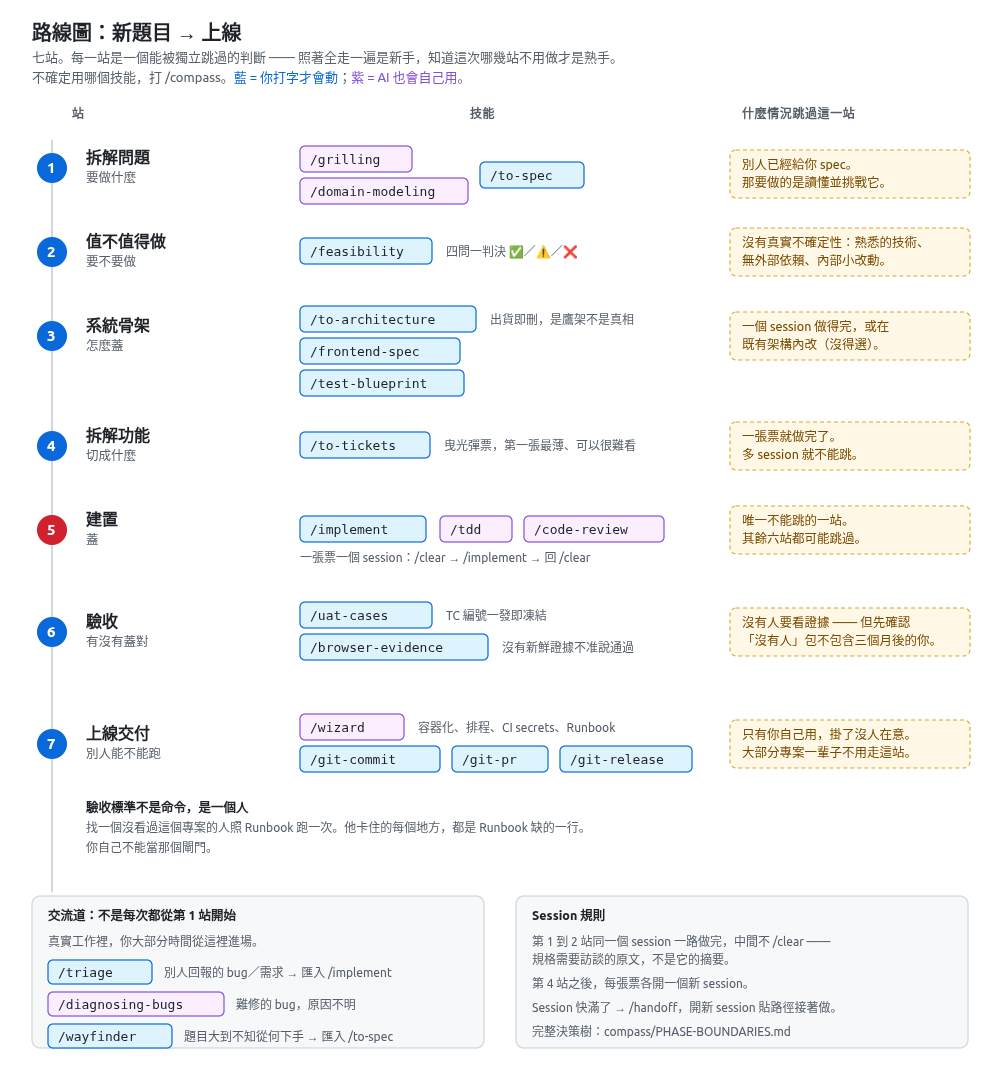
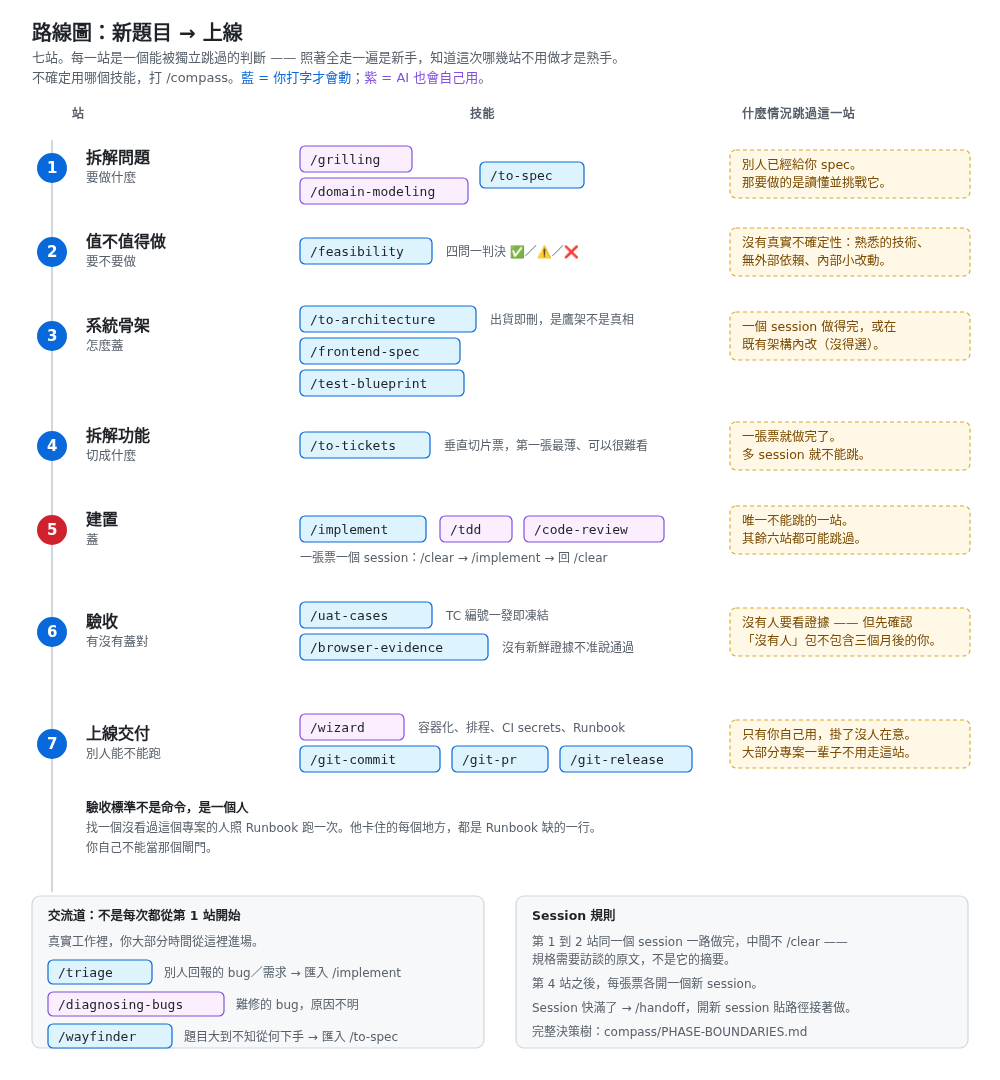
docs(wording): 用詞改為台灣慣用語，「曳光彈」改稱「垂直切片」
WHY
「曳光彈」是 tracer bullet 的直譯，台灣學員看不懂，也和工作坊課綱
使用的「垂直切片」對不起來。順手掃了全 repo 的中國大陸慣用語。

WHAT
- 曳光彈 → 垂直切片（依語境改為「垂直切片票」「第一張切片」等）
- 文檔→文件、運行→執行、回滾計畫→回復（rollback）計畫、踩坑→踩雷、
  配置→設定／編制、場景→情境、代碼慣例→符號慣例、登錄→登記、
  報錯→回報錯誤、更新日誌→變更紀錄、點擊→點選、自帶→內附、
  發佈→發布（統一成教育部用字，原本兩種寫法混用）
- 技能內的英文 prompt（tracer bullet）不動：那是給模型的 leading word，
  見 writing-for-agents
- route.png 由 route.svg 以 headless Chrome 重新輸出，確保圖文一致
- 保留：項目、對象、函數（數學語意）、心智模型、一鍵、落地（台灣商業用語）

IMPACT
- to-tickets、to-spec、git-release 的中文 description 有變，觸發語意不變
- git-release 產出的 CHANGELOG 標題由「更新日誌」改為「變更紀錄」
- check.sh 全綠、SKILL.md frontmatter 首字元檢查通過

diff --git a/docs/skill-atlas.html b/docs/skill-atlas.html
@@ -451,7 +451,7 @@ footer .mono{color:var(--muted)}
           <p class="st-name">拆解功能</p>
           <p class="st-what">切成什麼</p>
           <div class="chips"><span class="chip u">/to-tickets</span></div>
-          <p class="hint">曳光彈票，每張標明自己的阻塞邊。第一張最薄，可以很難看。</p>
+          <p class="hint">垂直切片票，每張標明自己的阻塞邊。第一張最薄，可以很難看。</p>
         </div>
         <div class="skip"><b>跳過條件</b>一張票就做完了。多 session 就不能跳。</div>
       </div>
@@ -572,12 +572,12 @@ footer .mono{color:var(--muted)}
   <div class="group">
     <div class="group-head"><h3>主線七站</h3><span class="count">9</span><span class="where">idea → ship</span></div>
     <div class="cards">
-      <div class="card"><span class="slug">/to-spec</span><p>把當前對話收斂成一份規格，並發佈到議題追蹤器。</p></div>
+      <div class="card"><span class="slug">/to-spec</span><p>把當前對話收斂成一份規格，並發布到議題追蹤器。</p></div>
       <div class="card"><span class="slug">/feasibility</span><p>規格與拆票之間補上可行性一關：技術風險、競品對照、成功指標、量級成本，收在 ✅／⚠／❌ 判決。</p></div>
       <div class="card"><span class="slug">/to-architecture</span><p>技術棧、資料模型、API 合約。每個取捨仍寫成獨立 ADR，架構文件只引用不重述。</p></div>
       <div class="card"><span class="slug">/frontend-spec</span><p>有 UI 的規格產出路由表、每頁 design brief、四態畫面（Loading／Empty／Error／Success）的 .pen mockup。</p></div>
       <div class="card"><span class="slug">/test-blueprint</span><p>提案測試藍圖 —— 層佈局、縫清單、CI 時段；核准後產出靜態層檢查腳本與 CI workflow。</p></div>
-      <div class="card"><span class="slug">/to-tickets</span><p>把計畫、規格或對話切成一張張曳光彈票，每張都標明自己的阻塞邊。</p></div>
+      <div class="card"><span class="slug">/to-tickets</span><p>把計畫、規格或對話切成一張張垂直切片票，每張都標明自己的阻塞邊。</p></div>
       <div class="card"><span class="slug">/implement</span><p>依規格或一組票建置，在議定的接縫上驅動 TDD，收尾跑一次程式碼審查。</p></div>
       <div class="card"><span class="slug">/uat-cases</span><p>從規格與使用者故事推導 UAT 案例，發出凍結的 TC 編號，維護 docs/uat-cases.md。</p></div>
       <div class="card"><span class="slug">/browser-evidence</span><p>把既定案例清單跑成可交付的證據 —— 截圖或原始回應、網路紀錄與被測版本 manifest。</p></div>
@@ -616,7 +616,7 @@ footer .mono{color:var(--muted)}
       <div class="card"><span class="slug">/git-commit</span><p>只提交你 staged 的內容，寫英文 commit 並推上遠端；絕不代替你 stage。</p></div>
       <div class="card"><span class="slug">/git-merge</span><p>把指定分支合併進當前分支；發生衝突時停下來分析與建議，解法是你的決定。</p></div>
       <div class="card"><span class="slug">/git-pr</span><p>檢視分支所有 commit 開出 PR；合併後同步 main、清理本地與遠端分支。</p></div>
-      <div class="card"><span class="slug">/git-release</span><p>更新版本號，把兩版本間的 commit 彙整成繁中發布摘要，打 tag 並發佈 release 頁面。</p></div>
+      <div class="card"><span class="slug">/git-release</span><p>更新版本號，把兩版本間的 commit 彙整成繁中發布摘要，打 tag 並發布 release 頁面。</p></div>
     </div>
   </div>
 

diff --git a/instructor/sunny-sprint.md b/instructor/sunny-sprint.md
@@ -78,8 +78,8 @@
 | 天 | 主題 | 交付物 |
 |---|---|---|
 | **8–10** | Coding agent 協作開發<br>CLI 心智模型、subagent 任務分工、RAG 核心模組（文件向量化／相似度搜尋／答案生成）、TDD | **3 個可回放的 PR**：功能實作、測試補強、重構優化<br>協作規範文件 |
-| **11–12** | 多任務並行<br>任務拆解與 Artifacts 驗證、前端介面、監控與日誌、API 文檔 | 使用者介面<br>監控 Dashboard<br>技術文檔<br>Artifacts 證據包 |
-| **13–14** | 安全檢測與部署上線<br>AI 生成程式的安全風險、依賴掃描、秘密管理與最小權限、CI/CD、效能監控 | 安全檢測報告<br>**上線 URL**<br>部署與維護文檔<br>3 分鐘 Pitch 影片 |
+| **11–12** | 多任務並行<br>任務拆解與 Artifacts 驗證、前端介面、監控與日誌、API 文件 | 使用者介面<br>監控 Dashboard<br>技術文件<br>Artifacts 證據包 |
+| **13–14** | 安全檢測與部署上線<br>AI 生成程式的安全風險、依賴掃描、秘密管理與最小權限、CI/CD、效能監控 | 安全檢測報告<br>**上線 URL**<br>部署與維護文件<br>3 分鐘 Pitch 影片 |
 
 **Day 8–10 用 Claude Code，Day 11–12 用 Antigravity。** 兩個工具的入門教材就在這個 repo：[`claude`](../../../tree/claude) 與 [`antigravity`](../../../tree/antigravity) 分支。想在開課前先熟悉工具，走完任一條都可以。
 
@@ -119,13 +119,13 @@
 **3. 可重現性與可部署性（15）**
 - 優秀 13–15：一鍵部署，完整環境設定，有 Docker 支援
 - 良好 10–12：基本可部署，需要少量手動設定
-- 及格 7–9：可運行但需要複雜設定，文檔不完整
-- 不及格 0–6：**無法在乾淨環境中運行**
+- 及格 7–9：可執行但需要複雜設定，文件不完整
+- 不及格 0–6：**無法在乾淨環境中執行**
 
 **4. 程式品質與測試（15）**
 - 優秀 13–15：有單元測試與整合測試，結構清晰，有錯誤處理
 - 良好 10–12：有基本測試，程式碼品質良好
-- 及格 7–9：可運行但缺乏測試與錯誤處理
+- 及格 7–9：可執行但缺乏測試與錯誤處理
 - 不及格 0–6：品質差，容易崩潰
 
 **5. 功能完整性（15）**
@@ -137,13 +137,13 @@
 **6. 效能與可擴展性（10）**
 - 優秀 9–10：有效能監控，考慮擴展性，有優化措施
 - 良好 7–8：效能可接受，有基本監控
-- 及格 5–6：可運行但效能一般
+- 及格 5–6：可執行但效能一般
 - 不及格 0–4：效能問題明顯影響使用
 
 **7. 交付完整度與展示（15）**
-- 優秀 13–15：完整文檔、清晰展示、有使用說明，pitch 專業
-- 良好 10–12：文檔基本完整，展示清楚
-- 及格 7–9：有基本文檔與展示但不夠專業
+- 優秀 13–15：完整文件、清晰展示、有使用說明，pitch 專業
+- 良好 10–12：文件基本完整，展示清楚
+- 及格 7–9：有基本文件與展示但不夠專業
 - 不及格 0–6：交付物不完整，無法有效展示
 
 </details>
@@ -172,7 +172,7 @@ repo 的教材可以獨立走完。Sunny Sprint 加的是**外部驗收壓力** 
 
 ---
 
-## 教練配置
+## 教練編制
 
 - 主教練 1 名：課程設計與最終評分
 - 助教 2–3 名：日常答疑與進度追蹤

diff --git a/advanced/cookcard/COOKBOOK.md b/advanced/cookcard/COOKBOOK.md
@@ -36,7 +36,7 @@
 | **session 邊界** | 這一站結束要不要 `/clear`，為什麼 |
 | **離站前自己勾** | 對應 `BUILD.md` 那一站的通過訊號 |
 
-**代碼慣例**：底下出現 `<票號>`、`<TC 編號>`、`<ADR 編號>` 的地方，是**你自己前一站生出來的東西**，這份文件沒辦法替你填。每一處都會標出來，並附一個填好的示範。
+**符號慣例**：底下出現 `<票號>`、`<TC 編號>`、`<ADR 編號>` 的地方，是**你自己前一站生出來的東西**，這份文件沒辦法替你填。每一處都會標出來，並附一個填好的示範。
 
 ---
 
@@ -174,7 +174,7 @@ CookCard 還沒有 codebase，所以是 `/grilling`（純訪談），不是 `/gr
 寫完之後直接告訴我：
 從這份 spec，我現在可以打哪一條命令，而且它現在一定會失敗？
 
-最後發佈到議題追蹤器。
+最後發布到議題追蹤器。
 ```
 
 ## session 邊界
@@ -185,7 +185,7 @@ CookCard 還沒有 codebase，所以是 `/grilling`（純訪談），不是 `/gr
 
 ## 離站前自己勾
 
-- [ ] spec 已發佈到議題追蹤器
+- [ ] spec 已發布到議題追蹤器
 - [ ] `Non-goal` 至少三條（想不出三條代表範圍還沒收斂）
 - [ ] 你手上有一條**現在跑一定會失敗**的檢查命令
 - [ ] `docs/adr/` 底下至少有一份 ADR
@@ -397,9 +397,9 @@ fixtures/ 底下每支影片的 expected.json 是驗收下限，
 
 **每張票都是垂直切片** —— 做完就有東西可觀察地動起來。
 絕對不要切成「加 DB schema」「加 API 層」「加 UI」。
-那是三張票，三張都落地之前什麼都不會動。
+那是三張票，三張都完成之前什麼都不會動。
 
-第一張票是曳光彈：最薄的端到端路徑，**可以很難看**。
+第一張票是垂直切片：最薄的端到端路徑，**可以很難看**。
 具體來說：寫死 fixtures/baseline 那支影片，
 跑出一個只有三樣食材的 JSON，印在終端機上。
 沒有 DB、沒有 API、沒有 UI、零錯誤處理。
@@ -443,7 +443,7 @@ ___
 
 ## 離站前自己勾
 
-- [ ] 第一張票是曳光彈，而且它**難看到讓你有點不舒服**
+- [ ] 第一張票是垂直切片，而且它**難看到讓你有點不舒服**
 - [ ] 沒有任何一張票的名字是「加 xxx 層」
 - [ ] 隨機挑的票貼給全新 session，它不反問背景
 - [ ] 每張票的阻塞邊你都說得出「為什麼是真的依賴」
@@ -514,7 +514,7 @@ ___（寫下你發現的事實）
 
 - [ ] 每張票各自開過一個新 session
 - [ ] `/implement` 收尾的 `/code-review` **兩條軸（Standards 與 Spec）都過**
-- [ ] 曳光彈那張票的產出你親眼看過它印在終端機上
+- [ ] 第一張垂直切片票的產出你親眼看過它印在終端機上
 - [ ] 中途改過至少一張票（一張都沒改過，八成是你在硬做）
 
 ---
@@ -705,7 +705,7 @@ ___（寫下你發現的事實）
 
 捨不得刪的話 —— 那份文件裡有什麼是 ADR 和票裡沒有的？**那個東西就是你放錯地方的真相。**
 
-## 八、發佈
+## 八、發布
 
 ```text
 /git-commit

diff --git a/advanced/cookcard/BUILD.md b/advanced/cookcard/BUILD.md
@@ -36,7 +36,7 @@
 
 **第 5 站是唯一不能跳的。** 其餘六站在對的條件下都該跳過 —— 每一站都有「什麼情況跳過」那一段。
 
-> **為什麼骨架（3）排在拆票（4）前面**：架構決定票怎麼切。先決定用不用資料庫，才知道曳光彈票要不要包含它。反過來做，票會在做到一半時被架構決定推翻。
+> **為什麼骨架（3）排在拆票（4）前面**：架構決定票怎麼切。先決定用不用資料庫，才知道垂直切片票要不要包含它。反過來做，票會在做到一半時被架構決定推翻。
 
 ---
 
@@ -120,7 +120,7 @@ SDD-agent-coding-beginner/     ← 你 fork 的這個 repo
 
 ## 產出什麼
 
-一份發佈到議題追蹤器的 spec，加上一份術語表（`CONTEXT.md`）與幾份 ADR。
+一份發布到議題追蹤器的 spec，加上一份術語表（`CONTEXT.md`）與幾份 ADR。
 
 ## 用哪個技能
 
@@ -170,7 +170,7 @@ spec 要能回答：輸入是什麼、輸出的食譜卡長什麼樣、哪些情
 
 ## 通過訊號
 
-spec 已發佈，而且**你能從 spec 寫出一條現在會失敗的檢查命令**。
+spec 已發布，而且**你能從 spec 寫出一條現在會失敗的檢查命令**。
 
 自我檢查：把 spec 給一個沒參與訪談的人看，**他問得出你沒想過的問題嗎？** 問得出來就回去補。
 
@@ -289,15 +289,15 @@ ls docs/adr/
 /to-tickets
 ```
 
-## 核心概念：曳光彈，不是分層
+## 核心概念：垂直切片，不是分層
 
 **每張票都是垂直切片** —— 做完就有東西可觀察地動起來。
 
-絕對不要切成「加資料庫 schema」「加 API 層」「加 UI」。那是三張票，三張都落地之前什麼都不會動，沒有一張可以獨立 review 或獨立 revert。
+絕對不要切成「加資料庫 schema」「加 API 層」「加 UI」。那是三張票，三張都完成之前什麼都不會動，沒有一張可以獨立 review 或獨立 revert。
 
-**第一張票是曳光彈：最薄的端到端路徑。它可以很難看** —— 一個寫死的案例、零錯誤處理。它的任務只是證明接縫對得上。
+**第一張票是垂直切片：最薄的端到端路徑。它可以很難看** —— 一個寫死的案例、零錯誤處理。它的任務只是證明接縫對得上。
 
-CookCard 的曳光彈大概是：**寫死 `fixtures/baseline` 那支影片，跑出一個只有三樣食材的 JSON，印在終端機上。** 沒有 DB、沒有 API、沒有 UI。
+CookCard 的第一張垂直切片大概是：**寫死 `fixtures/baseline` 那支影片，跑出一個只有三樣食材的 JSON，印在終端機上。** 沒有 DB、沒有 API、沒有 UI。
 
 ## 什麼時候跳過這一站
 
@@ -410,7 +410,7 @@ CookCard 的曳光彈大概是：**寫死 `fixtures/baseline` 那支影片，跑
 
 ## 產出什麼
 
-一支可重跑的部署精靈、容器化設定、排程、一份 Runbook，以及發佈出去的版本。
+一支可重跑的部署精靈、容器化設定、排程、一份 Runbook，以及發布出去的版本。
 
 ## 用哪些技能
 

diff --git a/.claude/skills/test-blueprint/TEMPLATE.md b/.claude/skills/test-blueprint/TEMPLATE.md
@@ -10,12 +10,12 @@ The shape of `docs/test-blueprint.md` in the target project. Content in Traditio
 
 ## 層佈局
 
-| 層 | 測什麼 | 誰落地 | CI 時段 |
+| 層 | 測什麼 | 誰負責 | CI 時段 |
 | --- | --- | --- | --- |
 | 靜態 | lint／format／型別 | scripts/check-*.sh（本藍圖產出） | presubmit |
 | 單元 | 模組對其設計 | /tdd | presubmit |
 | 整合 | 縫清單所列邊界 | /tdd | 受影響→presubmit；全套→merge |
-| 驗收 | docs/uat-cases.md 全清單 | /uat-cases → /browser-evidence | 發佈前 |
+| 驗收 | docs/uat-cases.md 全清單 | /uat-cases → /browser-evidence | 發布前 |
 
 ## 縫清單
 
@@ -27,7 +27,7 @@ The shape of `docs/test-blueprint.md` in the target project. Content in Traditio
 
 | 承諾 | 標題 | 層 | 時段 | 測試／案例 |
 | --- | --- | --- | --- | --- |
-| PR-AUTH-01 | 會員登入 | 驗收 | 發佈前 | TC-AUTH-01 |
+| PR-AUTH-01 | 會員登入 | 驗收 | 發布前 | TC-AUTH-01 |
 
 ## 缺口清單
 
@@ -50,7 +50,7 @@ The shape of `docs/test-blueprint.md` in the target project. Content in Traditio
 - 覆蓋率：追溯覆蓋為完成定義；行覆蓋僅儀表，不設門檻
 - 未實作門：新增硬擋、存量軟報，界線為上方豁免清單
 - 現況報告：`docs/test-status.md`，CI 於 merge 後生成
-- 證據保留：<留最近 N 次＋每次發佈一份，或「暫不設限」>；單 run 超過約 50MB 或 `docs/uat/` 累計超過約 1GB 時，改上 Git LFS
+- 證據保留：<留最近 N 次＋每次發布一份，或「暫不設限」>；單 run 超過約 50MB 或 `docs/uat/` 累計超過約 1GB 時，改上 Git LFS
 - 偏離預設：<無，或逐條列偏離＋理由>
 ```
 

diff --git a/instructor/cookcard/TEACHING.md b/instructor/cookcard/TEACHING.md
@@ -214,7 +214,7 @@
 | 你看到 | 意味著 |
 |---|---|
 | 票名是「建立資料庫 schema」「實作 API 層」 | 分層切法。**這一站最嚴重的錯誤**，立刻打斷 |
-| 第一張票就要接 DB | 曳光彈不夠薄 |
+| 第一張票就要接 DB | 第一張切片不夠薄 |
 | 阻塞邊連成一條直線 | 發明出來的依賴。問每一條邊「為什麼是真的」 |
 | 票的內文是一行字 | 太小，該合併 |
 | 票裡出現「如同我們討論的」 | 依賴對話。貼給新 session 一定死 |
@@ -235,7 +235,7 @@
 |---|---|---|
 | 「票要拆多細？」 | 給數字 | 「一張票 = 一個全新的 context window。這張塞得下嗎？」 |
 | 「這兩張有沒有依賴？」 | 幫他判 | 「B 需要 A 定義的什麼？講出那個型別的名字」 |
-| 「曳光彈可以這麼醜？」 | 「稍微整理一下」 | 「它的任務只是證明接縫對得上。醜到你不舒服才對」 |
+| 「第一張切片可以這麼醜？」 | 「稍微整理一下」 | 「它的任務只是證明接縫對得上。醜到你不舒服才對」 |
 
 ## 放行門檻
 

diff --git a/docs/SKILL-MAP.md b/docs/SKILL-MAP.md
@@ -28,7 +28,7 @@
 | **1** 拆解問題 | `/grilling`（無 codebase）<br>`/grill-with-docs`（有 codebase）<br>`/domain-modeling`<br>`/to-spec` | spec、`CONTEXT.md`、ADR | 別人已經給你 spec |
 | **2** 值不值得做 | `/feasibility` | ✅／⚠／❌ 判決 | 沒有真實不確定性 |
 | **3** 系統骨架 | `/to-architecture`<br>`/frontend-spec`<br>`/test-blueprint` | 技術棧、資料模型、API 合約、測試藍圖 | 一個 session 做得完，或在既有架構內 |
-| **4** 拆解功能 | `/to-tickets` | 曳光彈票 + 阻塞邊 | 一張票就做完了 |
+| **4** 拆解功能 | `/to-tickets` | 垂直切片票 + 阻塞邊 | 一張票就做完了 |
 | **5** 建置 | `/implement`（內含 `/tdd`、`/code-review`） | 程式碼 | **不能跳** |
 | **6** 驗收 | `/uat-cases`<br>`/browser-evidence` | 凍結編號的 TC 清單、證據 | 沒人要看證據 |
 | **7** 上線交付 | `/wizard`<br>`/git-commit` → `/git-pr` → `/git-release` | 部署精靈、Runbook、release | 只有你自己用 |

diff --git a/.claude/skills/git-release/SKILL.md b/.claude/skills/git-release/SKILL.md
@@ -1,6 +1,6 @@
 ---
 name: git-release
-description: 更新版本檔中的版本號，彙整兩版本間的 commit 寫成繁體中文發布摘要，打 tag 推上遠端並發佈 release 頁面。
+description: 更新版本檔中的版本號，彙整兩版本間的 commit 寫成繁體中文發布摘要，打 tag 推上遠端並發布 release 頁面。
 disable-model-invocation: true
 argument-hint: 目標版本號，如 v0.8.1
 allowed-tools: Bash(git log:*), Bash(git tag:*), Bash(git push:*), Bash(git describe:*), Bash(git commit:*), Bash(git add:*), Bash(gh release:*)
@@ -46,7 +46,7 @@ Release v0.8.1 - 2026-07-28
 ## 總覽
 一小段話：這個版本的主要目的與核心價值。
 
-## 更新日誌
+## 變更紀錄
 
 ### 新功能
 

diff --git a/.claude/skills/README.md b/.claude/skills/README.md
@@ -65,7 +65,7 @@ bash scripts/check.sh
 | `guard-secrets.sh` | staged diff 裡出現憑證字面值時擋下 `git commit` |
 | `check-on-stop.sh` | 停止時的檢查 |
 
-每支都有自帶測試（`test-*.sh`），本 repo 驗過三支全 pass。
+每支都有內附測試（`test-*.sh`），本 repo 驗過三支全 pass。
 
 **為什麼要 hook 而不是寫在 `CLAUDE.md`**：散文規則大約只有七成遵守率，這幾條紅線靠 exit code 2，不靠模型記得。這正是心法篇不變量 5「邊界是防線，不是建議」。
 

diff --git a/instructor/cookcard/README.md b/instructor/cookcard/README.md
@@ -77,7 +77,7 @@
 | 0:00–0:40 | 兩兩交換 spec，互相找「不可驗證的 Acceptance Criteria」 |
 | 0:40–1:00 | 收：公開改一份寫得最模糊的 |
 | 1:00–1:30 | 第 3 站的刻意坑：把 spec 交給 AI 實作，找出它替你決定了什麼 |
-| 1:30–2:40 | 第 4 站：`/to-tickets` 拆曳光彈票 |
+| 1:30–2:40 | 第 4 站：`/to-tickets` 拆垂直切片票 |
 | 2:40–3:00 | **跑 `multi-dish`**，讓 schema 當場崩掉 |
 
 ### 2:40 那一刻怎麼帶

diff --git a/.claude/skills/uat-cases/SKILL.md b/.claude/skills/uat-cases/SKILL.md
@@ -61,7 +61,7 @@ Case content in Traditional Chinese; IDs and area names in English. Per case:
 - **步驟**：
   1. 開啟 /login
   2. 在 #login-email 輸入 member01@example.com，輸入密碼
-  3. 點擊「登入」
+  3. 點選「登入」
 - **期望結果**：導向 /dashboard，右上角顯示會員名稱
 - **最近判定**：pass ／ 於 `alex-2026-08-09-4b17006` ／ 判定者 <你的名字>
 ```
